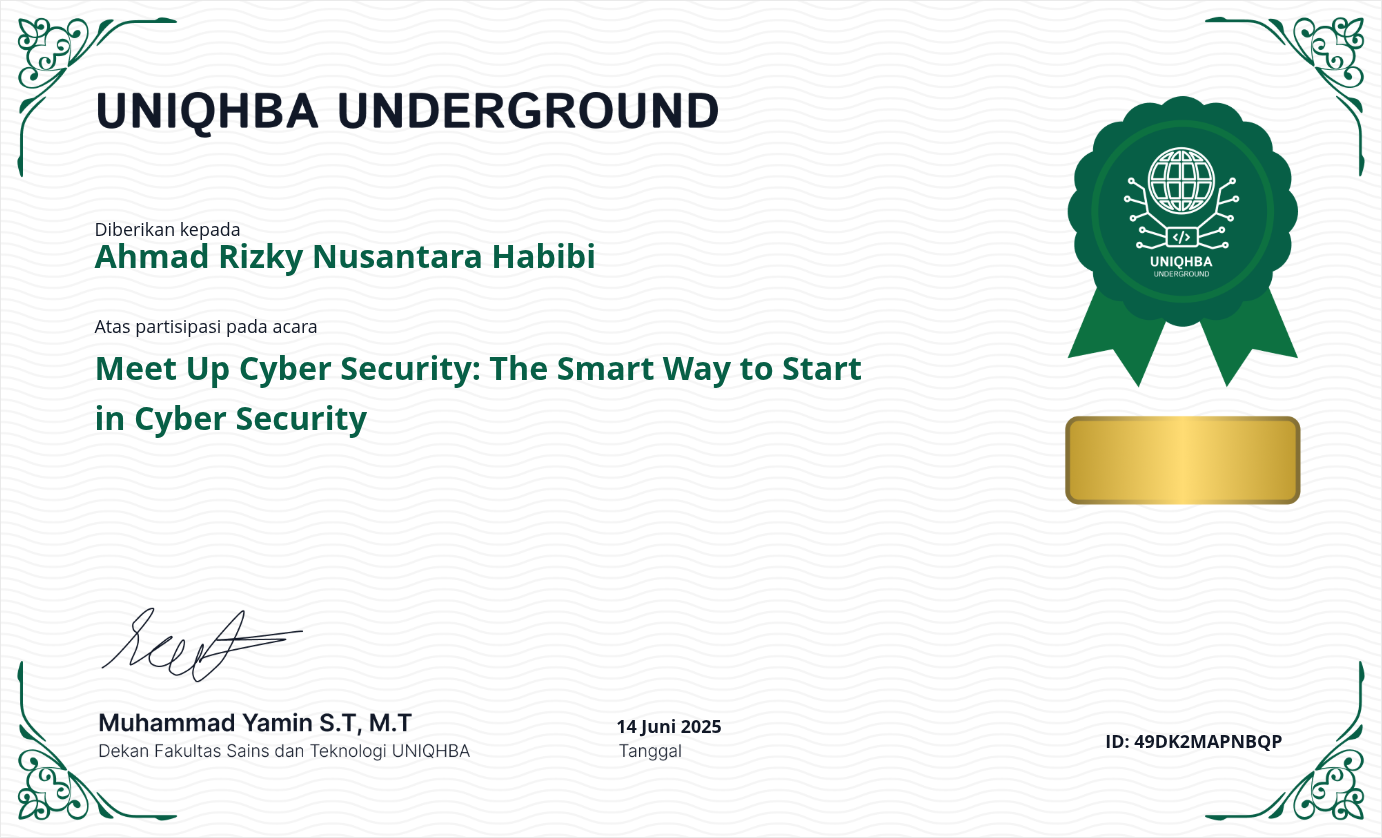
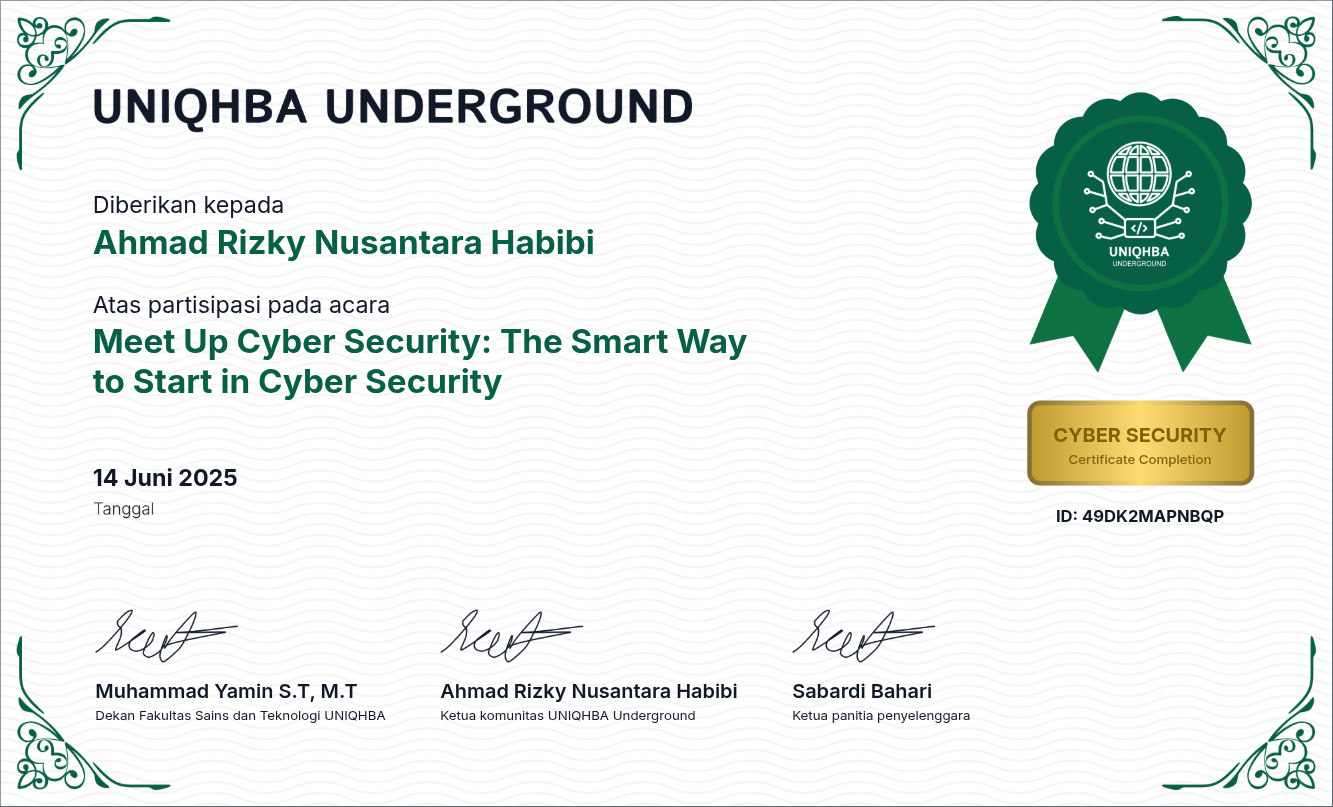
[fix] precision

diff --git a/src/routes/+page.svelte b/src/routes/+page.svelte
@@ -25,7 +25,7 @@
   <div class="container mx-auto my-10 flex flex-col justify-center items-center gap-5">
     <h1 class="text-4xl font-bold">Generate Certificate</h1>
     {#if isCertificateReady}
-      <div bind:this={certificateEl} id="certificate" class="certificate aspect-auto border border-neutral-200 relative">
+      <div bind:this={certificateEl} id="certificate" class="certificate">
         <img
           src="img/certificate-template.png"
           alt="template"
@@ -34,31 +34,71 @@
         />
 
         <!-- Label Nama -->
-        <div class="absolute text-xl top-60 left-26">
-          <span class="text-dark-cert">Diberikan kepada</span>
-        </div>
+        <span class="label-nama">Diberikan kepada</span>
         <!-- Nama Lengkap -->
-        <div class="absolute text-5xl font-bold top-66 left-26">
-          <span class="text-uniqhbaunderground">Ahmad Rizky Nusantara Habibi</span>
-        </div>
+        <span class="nama-lengkap">Ahmad Rizky Nusantara Habibi</span>
 
         <!-- Label Pencapaian -->
-        <div class="absolute text-xl top-87 left-26">
-          <span class="text-dark-cert">Atas partisipasi pada acara</span>
-        </div>
+        <span class="label-achievement">Atas partisipasi pada acara</span>
         <!-- Pencapaian -->
-        <div class="absolute text-5xl font-bold top-95 left-26 w-7/12 leading-14">
-          <span class="text-uniqhbaunderground">Meet Up Cyber Security: The Smart Way to Start in Cyber Security</span>
+        <div class="achievement">
+          <p>Meet Up Cyber Security: The Smart Way to Start in Cyber Security</p>
         </div>
 
         <!-- Tanggal Sertifikat -->
-        <div class="absolute text-xl bottom-27 left-171">
-          <span class="text-dark-cert font-bold">14 Juni 2025</span>
+        <span class="date">14 Juni 2025</span>
+
+        <div class="ttd">
+          <!-- DEKAN -->
+          <div class="item">
+            <div class="img-container">
+              <img
+                src="/img/ttd-dekan.png"
+                alt=""
+              />
+            </div>
+            <div class="name-container">
+              <span class="nama">Muhammad Yamin S.T, M.T</span>
+              <span class="jabatan">Dekan Fakultas Sains dan Teknologi UNIQHBA</span>
+            </div>
+          </div>
+
+          <!-- KETUA KOMUNITAS -->
+          <div class="item">
+            <div class="img-container">
+              <img
+                src="/img/ttd-ketua-komunitas.png"
+                alt=""
+              />
+            </div>
+            <div class="name-container">
+              <span class="nama">Ahmad Rizky Nusantara Habibi</span>
+              <span class="jabatan">Ketua komunitas UNIQHBA Underground</span>
+            </div>
+          </div>
+
+          <!-- KETUA PANITIA -->
+          <div class="item">
+            <div class="img-container">
+              <img
+                src="/img/ttd-ketua-panitia.png"
+                alt=""
+              />
+            </div>
+            <div class="name-container">
+              <span class="nama">Sabardi Bahari</span>
+              <span class="jabatan">Ketua panitia penyelenggara</span>
+            </div>
+          </div>
         </div>
 
-        <!-- ID Sertifikat -->
-        <div class="absolute text-xl bottom-23 right-27">
-          <span class="text-dark-cert font-bold">ID: 49DK2MAPNBQP</span>
+        <div class="kredensial">
+          <div class="certificate-type">
+            <span class="field">CYBER SECURITY</span>
+            <span class="type">Certificate Completion</span>
+          </div>
+          <!-- ID Sertifikat -->
+          <span class="certificate-id">ID: 49DK2MAPNBQP</span>
         </div>
       </div>
     {/if}
@@ -69,3 +109,147 @@
     </div>
   </div>
 </div>
+
+<style>
+  :root {
+    --color-uniqhbaunderground: #075F46;
+    --color-uniqhbaunderground-2: #178E3B;
+    --color-dark-cert: #111827;
+    --color-gold: #816208;
+  }
+
+  /* CONTAINER */
+  .certificate {
+    position: relative;
+    width: 2000px;
+    height: 1211px;
+    border: 1px solid var(--color-dark-cert);
+  }
+
+  /* NAMA LENGKAP */
+  .certificate .label-nama {
+    position: absolute;
+    top: 280px;
+    left: 138px;
+    font-size: 35px;
+    color: var(--color-dark-cert);
+  }
+  .certificate .nama-lengkap {
+    position: absolute;
+    top: 325px;
+    left: 138px;
+    font-size: 50px;
+    color: var(--color-uniqhbaunderground);
+    font-weight: 700;
+  }
+
+  /* PENCAPAIAN */
+  .certificate .label-achievement {
+    position: absolute;
+    top: 430px;
+    left: 138px;
+    font-size: 35px;
+    color: var(--color-dark-cert);
+  }
+  .certificate .achievement {
+    position: absolute;
+    top: 480px;
+    left: 138px;
+    font-size: 50px;
+    color: var(--color-uniqhbaunderground);
+    font-weight: 700;
+    width: 50%;
+  }
+  .certificate .achievement p {
+    line-height: 120%;
+  }
+
+  /* TANGGAL */
+  .certificate .date {
+    position: absolute;
+    top: 690px;
+    left: 138px;
+    font-size: 35px;
+    font-weight: 700;
+    color: var(--color-dark-cert);
+  }
+
+  /* DEKAN */
+  .certificate .ttd {
+    height: fit-content;
+    position: absolute;
+    bottom: 120px;
+    left: 142px;
+    display: flex;
+    flex-direction: row;
+    gap: 80px;
+  }
+  .certificate .ttd .item {
+    display: flex;
+    flex-direction: column;
+    gap: 20px;
+  }
+
+  .certificate .ttd .item .img-container {
+    width: 214px;
+    height: auto;
+  }
+
+  .certificate .ttd .item .img-container img {
+    width: 100%;
+    height: 100%;
+  }
+  .certificate .ttd .item .name-container {
+    display: flex;
+    flex-direction: column;
+    gap: 0;
+    color: var(--color-dark-cert);
+  }
+  .certificate .ttd .item .name-container .nama {
+    font-size: 30px;
+    font-weight: 600;
+  }
+  .certificate .ttd .item .name-container .jabatan {
+    font-size: 20px;
+  }
+
+  /* KREDENSIAL */
+  .certificate .kredensial {
+    position: absolute;
+    top: 0;
+    bottom: 0;
+    right: 0;
+    width: 574px;
+    display: flex;
+    flex-direction: column;
+    justify-content: center;
+    align-items: center;
+  }
+
+  .certificate .kredensial .certificate-type {
+    display: flex;
+    flex-direction: column;
+    align-items: center;
+    gap: 0;
+    justify-content: center;
+    color: var(--color-gold);
+    margin-top: 125px;
+  }
+
+  .certificate .kredensial .certificate-type .field {
+    font-weight: 700;
+    font-size: 30px;
+  }
+  .certificate .kredensial .certificate-type .type {
+    font-weight: 500;
+    font-size: 20px;
+  }
+  
+  .certificate .kredensial .certificate-id {
+    font-weight: 700;
+    font-size: 25px;
+    color: var(--color-dark-cert);
+    margin-top: 340px;
+    position: absolute;
+  }
+</style>

diff --git a/src/routes/+layout.svelte b/src/routes/+layout.svelte
@@ -1,7 +1,20 @@
 <script lang="ts">
 	import '../app.css';
+	import '@fontsource/inter/100.css';
+	import '@fontsource/inter/200.css';
+	import '@fontsource/inter/300.css';
+	import '@fontsource/inter/400.css';
+	import '@fontsource/inter/500.css';
+	import '@fontsource/inter/600.css';
+	import '@fontsource/inter/700.css';
+	import '@fontsource/inter/800.css';
+	import '@fontsource/inter/900.css';
 
 	let { children } = $props();
 </script>
+
+<svelte:head>
+	<title>Generate Certificate</title>
+</svelte:head>
 
 {@render children()}

diff --git a/src/app.css b/src/app.css
@@ -1,5 +1,9 @@
 @import 'tailwindcss';
 
+html {
+  font-family: 'Inter', sans-serif;
+}
+
 @theme {
   --color-uniqhbaunderground: #075F46;
   --color-uniqhbaunderground-2: #178E3B;
